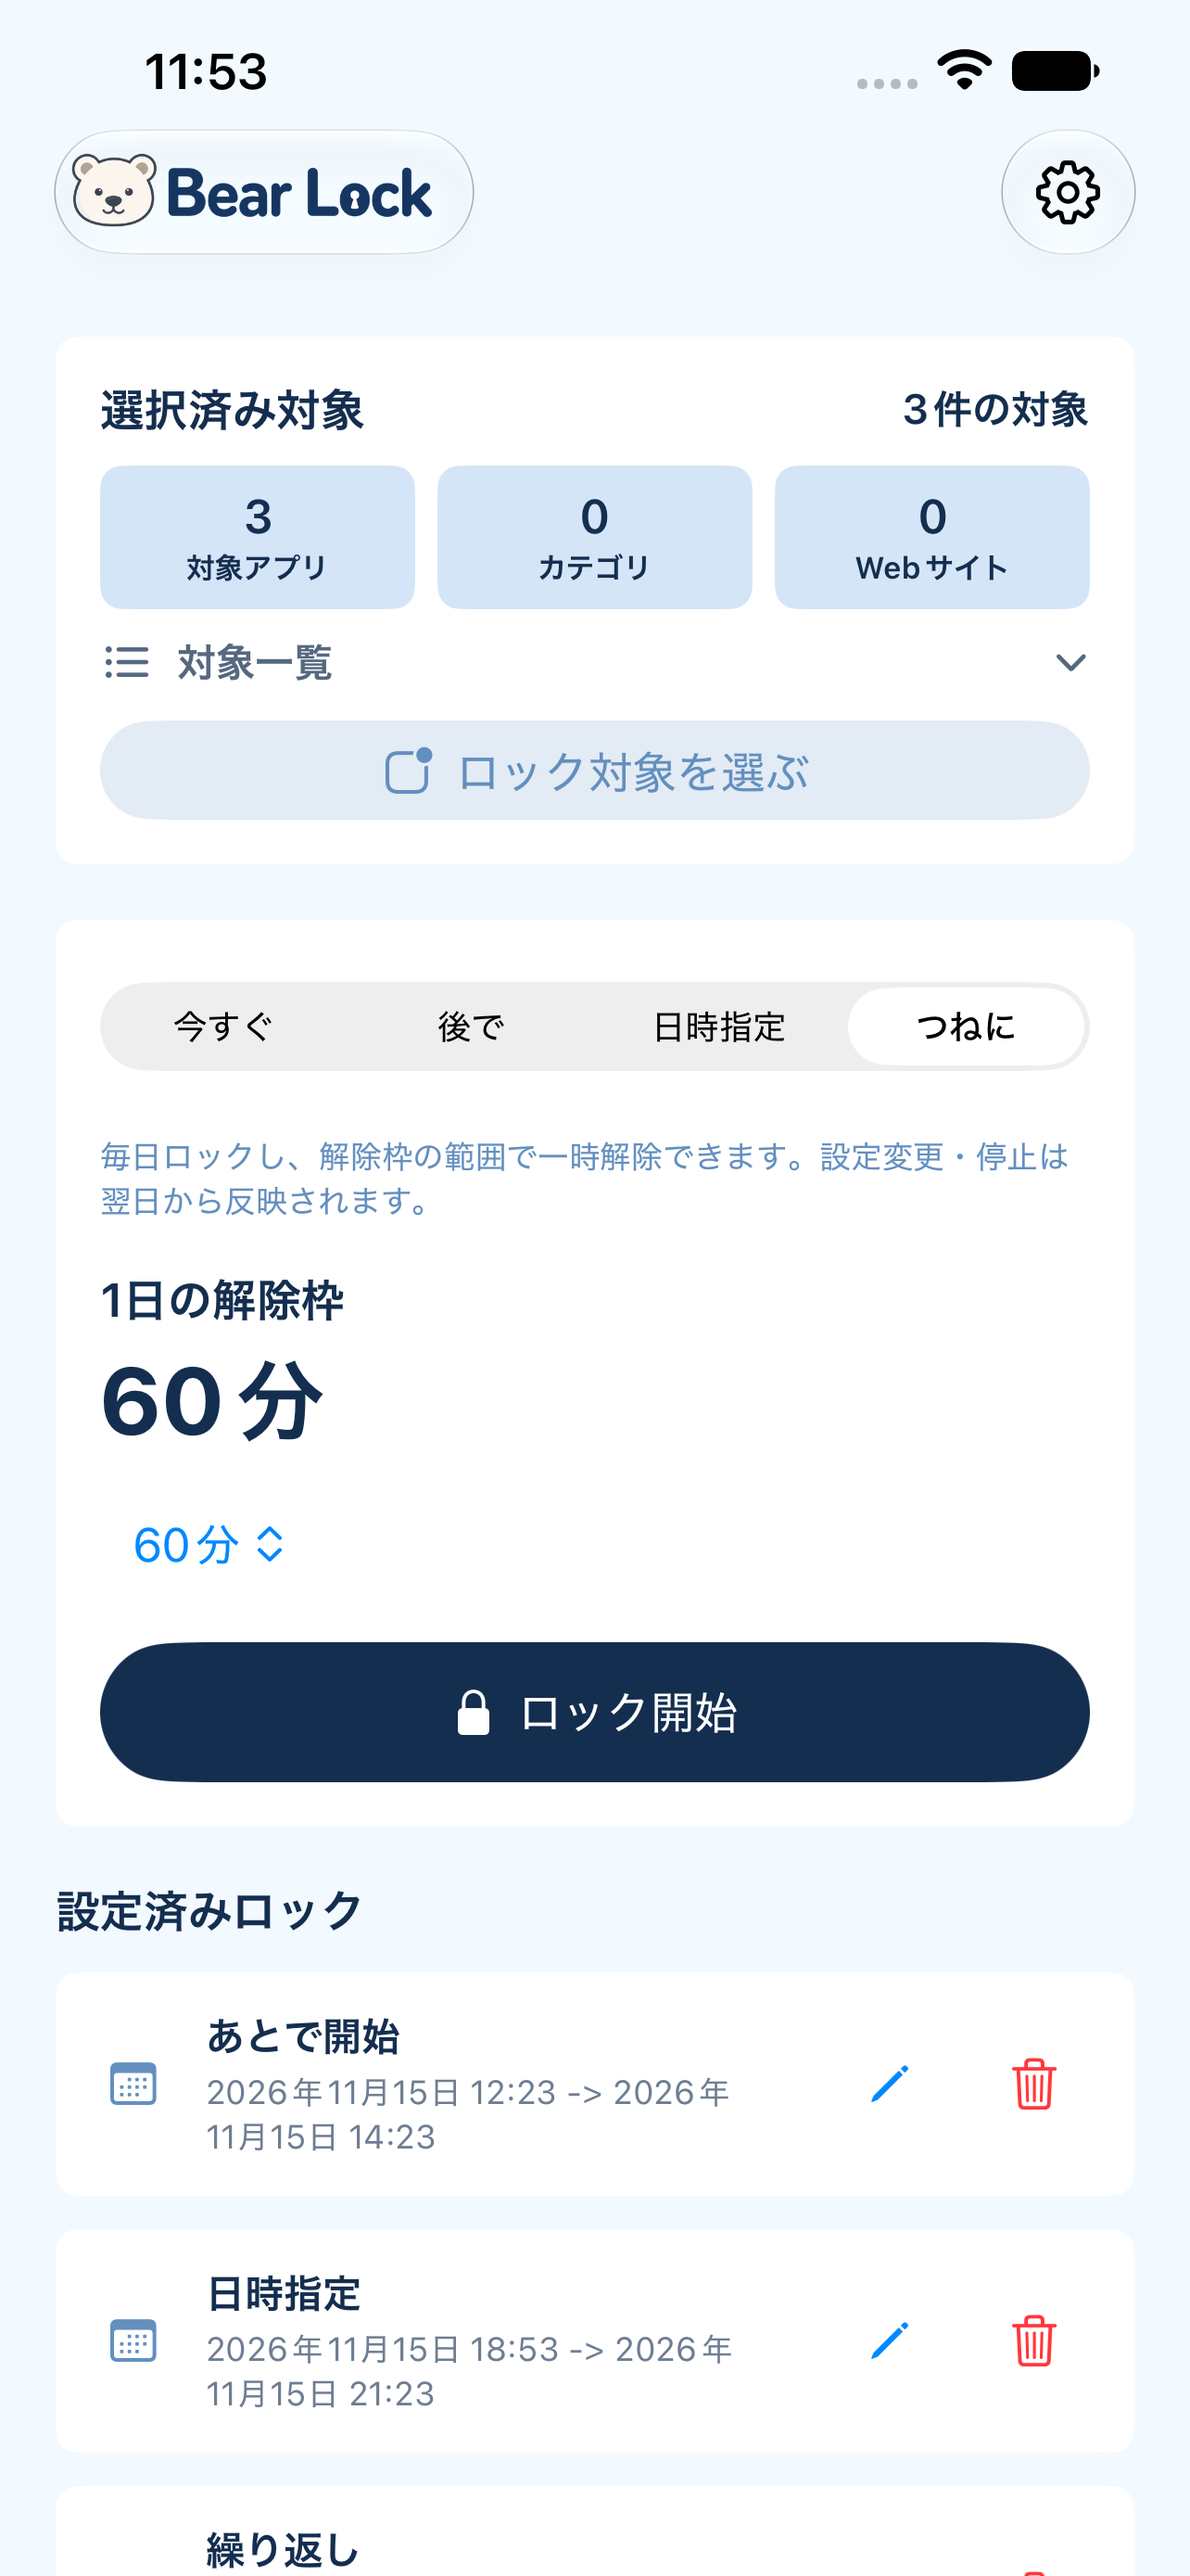
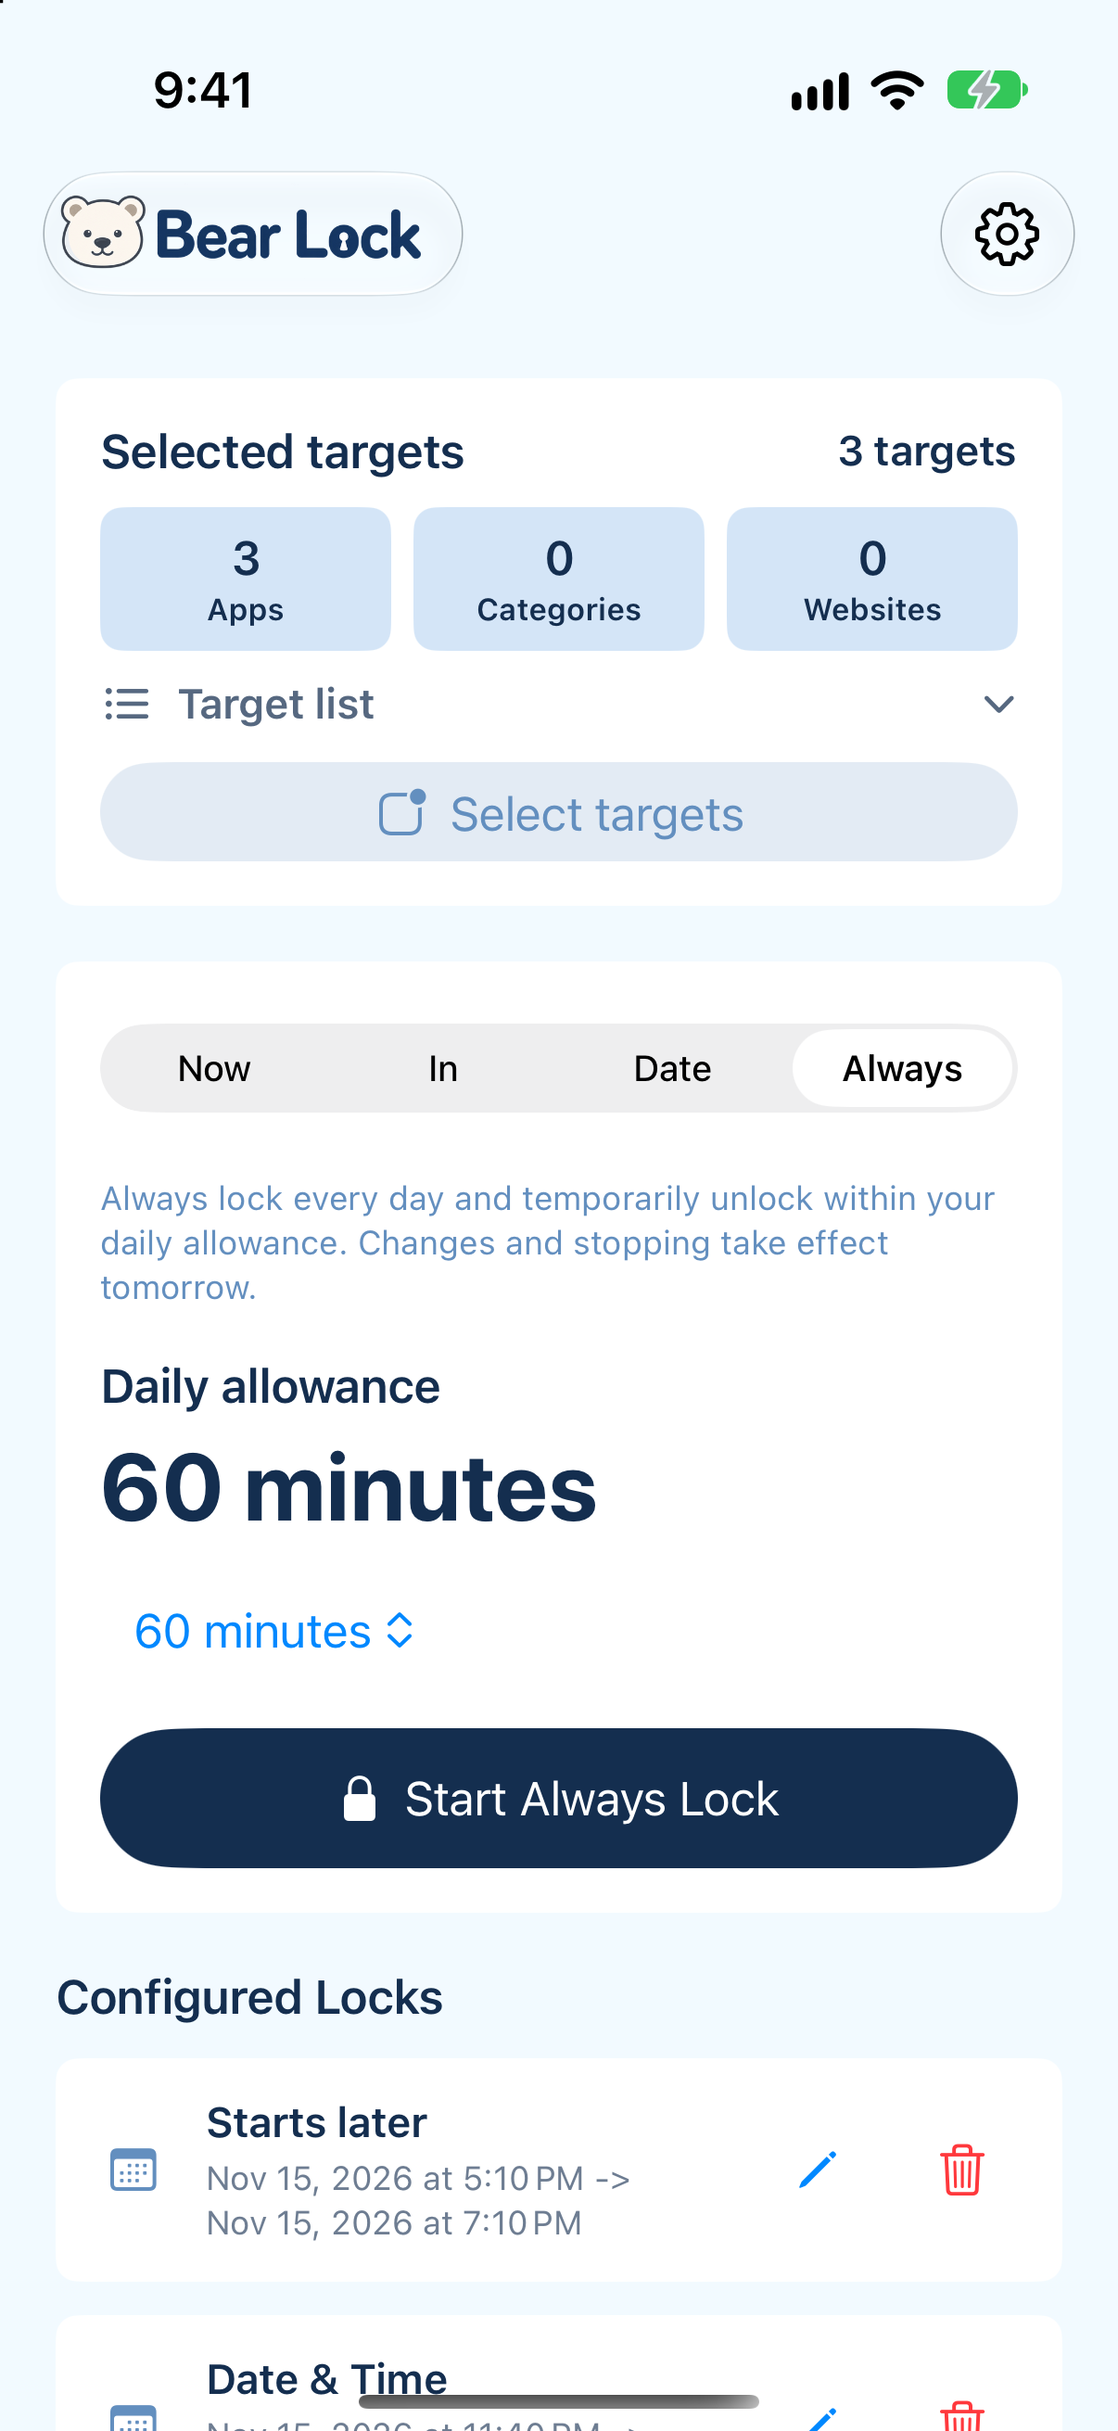
Refresh iOS 1.4 review assets

diff --git a/docs/launch/ios-1.4-testflight-checklist.md b/docs/launch/ios-1.4-testflight-checklist.md
@@ -51,19 +51,26 @@ Record each result separately as **Pass**, **Fail**, or **Not run**.
 | End free unlock early | “End temporary unlock” relocks the target and returns each full unused minute to today's free balance. | Not run |
 | Free balance is exhausted | Free unlock buttons are unavailable; the paid timed option remains available when the product is loaded. | Not run |
 | Product metadata loads | The paid option is enabled and displays StoreKit's ¥500 price. | Not run |
-| Paid duration validation | 15 minutes is rejected; 16 minutes is accepted. A duration over 60 minutes, such as 90 minutes, is accepted. | Not run |
+| Paid duration validation | 15 minutes is accepted; durations are selected in 15-minute steps up to 1,440 minutes. A duration over the free daily limit, such as 90 minutes, is accepted. | Not run |
 | Sandbox purchase succeeds | Purchase confirmation completes, the chosen target is temporarily unshielded, and the free daily balance does not change. | Not run |
-| Paid unlock expiry | At the selected expiry time the daily Shield is restored. | Not run |
-| Paid unlock crosses midnight | The paid grant remains active until its selected expiry; the free daily balance resets independently at local midnight. | Not run |
+| Paid unlock expiry | If the Always Lock remains enabled, the daily Shield is restored at the selected expiry time. | Not run |
+| Paid unlock crosses midnight | If the Always Lock remains enabled, the paid grant remains active until its selected expiry; the free daily balance resets independently at local midnight. | Not run |
 | Purchase cancelled or fails | No paid grant is delivered and the target remains locked. | Not run |
 | Normal lock overlaps | A normal lock that blocks the selected target remains effective; unrelated normal locks do not disable the daily allowance. | Not run |
 
 Use short durations for expiry checks where practical, then test one duration over 60 minutes to confirm that the paid path has no 60-minute daily allowance cap. Do not infer the paid-flow result from the local StoreKit test host alone.
 
+## App Store listing materials
+
+- [x] Prepare five refreshed screenshot candidates in Japanese and English from the current 1.4 screenshot app: `setup.png`, `home.png`, `composeAlways.png`, `confirmation.png`, and `activeLock.png`. They replace the previous five image files in [Japanese](../../ci-screenshots/app-store-ja/) and [English](../../ci-screenshots/app-store-en/). They are not uploaded to App Store Connect.
+- [ ] Compare these candidates with the final TestFlight build and existing App Store Connect gallery, then replace the corresponding image slots. Do not append a duplicate gallery; the current Connect gallery has not been verified from this workspace.
+- [x] Prepare Japanese release notes: [ios-1.4-whats-new-ja.txt](ios-1.4-whats-new-ja.txt).
+- [ ] Confirm the listing's Japanese localization and upload the finalized release notes with the 1.4 version.
+
 ## App Review preparation
 
 - [ ] Verify the App Store Connect product's display name and price match the purchase sheet on a TestFlight device.
-- [x] Capture the Japanese timed-unlock sheet for the IAP's App Review screenshot: [app-review-screenshot-ja.png](ios-1.4-timed-unlock/app-review-screenshot-ja.png). It uses one slider, with 15-minute steps from 15 to 1,440 minutes and a 30-minute default; it has no preset buttons. This is a review-only screen capture, not an App Store product-page screenshot or proof of a completed purchase. It shows the screenshot fixture price ¥500; set the App Store Connect price to ¥500 before submitting.
+- [x] Keep the Japanese timed-unlock sheet for the IAP's App Review screenshot in Git: [app-review-screenshot-ja.png](ios-1.4-timed-unlock/app-review-screenshot-ja.png). It uses one slider, with 15-minute steps from 15 to 1,440 minutes and a 30-minute default; it has no preset buttons. This is separate from the App Store product-page screenshots and is not proof of a completed purchase. It shows the screenshot fixture price ¥500; set the App Store Connect price to ¥500 before submitting.
 - [ ] Add review notes explaining how to configure an Always Lock, open **Choose unlock time**, enter a duration, and complete the Sandbox purchase.
 - [ ] Attach the current app version/build and the new consumable product to the intended review submission when ready to release.
 - [ ] Keep submission for review separate from TestFlight testing; App Store Connect Sandbox testing does not require prior IAP approval.

diff --git a/ci-screenshots/README.md b/ci-screenshots/README.md
@@ -2,11 +2,11 @@
 
 The current English and Japanese simulator captures are in `app-store-en` and `app-store-ja` (16 screens per locale). [Source metadata](app-store-source.json) identifies the exact source commit, GitHub Actions run, and files.
 
-The gallery also includes nine daily allowance flow previews per locale (`composeAlways` and the eight `allowance*` screens). They were captured on iPhone 14 Plus at 1284x2778 before branch integration; metadata records them separately from the reviewed 1206x2622 App Store set. The manual iOS Screenshots workflow now captures these states at the configured App Store device size.
+The gallery also includes daily allowance flow previews. The five App Store screen types per locale (`setup`, `home`, `composeAlways`, `confirmation`, and `activeLock`) were re-captured locally on iPhone 17 Simulator at 1206x2622 on 2026-11-15. Their provenance and hashes are recorded in `app-store-source.json`. Other daily allowance previews remain earlier captures; the manual iOS Screenshots workflow can regenerate them at the configured App Store device size.
 
 These use the screenshot app's fixtures. They show the current UI, not evidence of actual Screen Time blocking. Interactive E2E evidence and the before/after review are recorded in [the selection-controls review](../docs/qa/ios-selection-controls-2026-10-11.md). Superseded QA and Android comparison images are available through fixed Git history links in the review notes.
 
-The 2026-10-26 gallery contains 31 captures from [iOS Screenshots run 3](https://github.com/hiroyoshii/bearlock/actions/runs/40323886294), source `8567e31`, plus the English `composeDelayed.png` from [run 2](https://github.com/hiroyoshii/bearlock/actions/runs/40315675972), source `c642aac`. Run 3 captured the iPhone home screen for that one file; it was rejected. The intervening fixture changes do not alter the delayed composer. Per-file source exceptions and source archive hashes are recorded in the metadata.
+The remaining 2026-10-26 gallery files contain captures from [iOS Screenshots run 3](https://github.com/hiroyoshii/bearlock/actions/runs/40323886294), source `8567e31`, plus the English `composeDelayed.png` from [run 2](https://github.com/hiroyoshii/bearlock/actions/runs/40315675972), source `c642aac`. Run 3 captured the iPhone home screen for that one file; it was rejected. Per-file source exceptions and source archive hashes are recorded in the metadata.
 
 All 32 selected images were visually reviewed and are 1206x2622 RGB PNGs for the Dynamic Island medium display slot. Their fully opaque alpha channels were removed without changing the decoded RGB pixels. Home and active-lock captures now show three selected apps, and the Japanese schedule heading is translated. The manual workflow succeeded, but it does not run UI tests or verify real Screen Time blocking. App Store Connect upload is not confirmed by this gallery update.
 

diff --git a/docs/launch/screenshot-candidates.md b/docs/launch/screenshot-candidates.md
@@ -2,31 +2,17 @@
 
 Generate new App Store captures with the manual `iOS Screenshots` workflow described in the [README](../../README.md#github-actions-ios-ci). Current repository screenshots are in `ci-screenshots/app-store-en` and `ci-screenshots/app-store-ja`; their source commit, run, dimensions and per-file source exceptions are recorded in [app-store-source.json](../../ci-screenshots/app-store-source.json). The gallery contains reviewed 1206 × 2622 RGB PNGs. Artifact folders are `screenshots/iphone-app-store-en` and `screenshots/iphone-app-store-ja`. Historical QA comparisons are not the current gallery.
 
-## Primary App Store / LP Candidates
+## iOS 1.4 App Store / LP Candidates
 
-1. Setup
-   - Purpose: shows brand, app icon, and permission/selection entry.
-   - Use for: first App Store screenshot or LP hero support image.
-   - Current files: `ci-screenshots/app-store-en/setup.png` and `ci-screenshots/app-store-ja/setup.png`
+The previous App Store gallery used the same five screen types in Japanese and English. The 1.4 candidates below replace those existing image files in Git at 1206 × 2622; they have not been uploaded to App Store Connect.
 
-2. Home
-   - Purpose: shows the main lock composer and selected target summary.
-   - Use for: explaining the main workflow.
-   - Current files: `ci-screenshots/app-store-en/home.png` and `ci-screenshots/app-store-ja/home.png`
+1. Setup: `setup.png`
+2. Home: `home.png`
+3. Always Lock setup: `composeAlways.png`
+4. Lock confirmation: `confirmation.png`
+5. Active lock: `activeLock.png`
 
-3. Confirmation
-   - Purpose: shows the commitment moment before locking.
-   - Use for: explaining that the user confirms target apps and wake time.
-   - Current files: `ci-screenshots/app-store-en/confirmation.png` and `ci-screenshots/app-store-ja/confirmation.png`
-
-4. Active Lock
-   - Purpose: shows sleeping bear, countdown, and the current wake-options entry.
-   - Use for: demonstrating core behavior.
-   - Current files: `ci-screenshots/app-store-en/activeLock.png` and `ci-screenshots/app-store-ja/activeLock.png`
-
-5. Diagnostics
-   - Purpose: shows local troubleshooting state.
-   - Use for: reviewer/support docs, not primary consumer marketing unless needed.
+Files: `ci-screenshots/app-store-en/` and `ci-screenshots/app-store-ja/`. The paid timed-unlock purchase sheet is documented separately in [the IAP App Review screenshot](ios-1.4-timed-unlock/app-review-screenshot-ja.png).
    - Current files: `ci-screenshots/app-store-en/diagnostics.png` and `ci-screenshots/app-store-ja/diagnostics.png`
 
 ## E2E Evidence Screenshots
